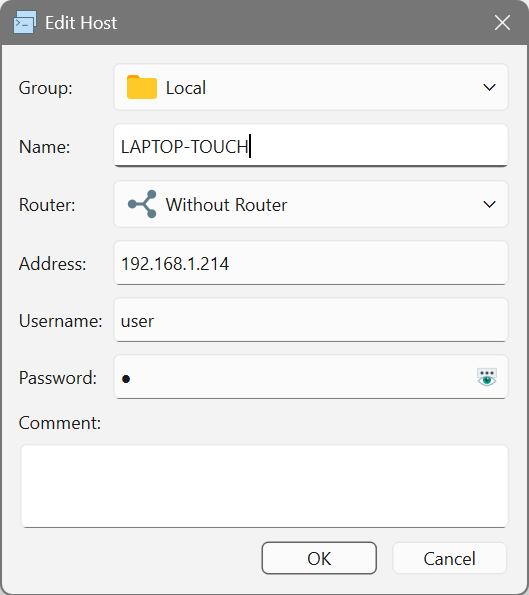
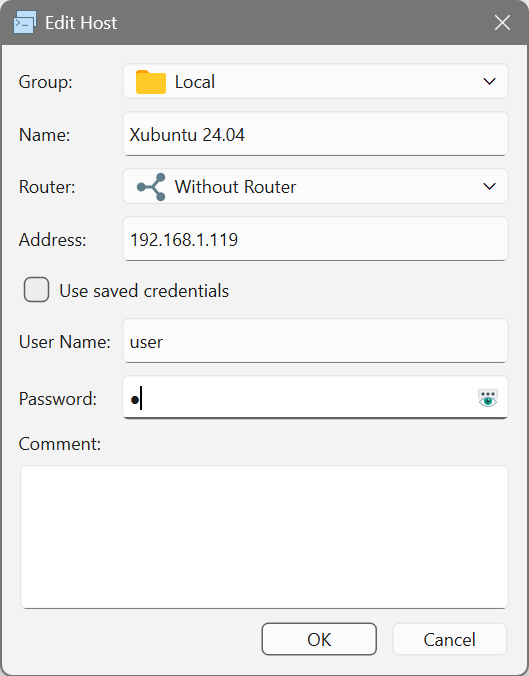
Update docs.

diff --git a/docs/client.md b/docs/client.md
@@ -183,17 +183,21 @@ without entering the address and the credentials every time.
 
 To create an entry, select a group and use **Add Host**. The dialog contains the following fields:
 
-| Field    | Required | Description                                                                                                                                                                            |
-|----------|----------|----------------------------------------------------------------------------------------------------------------------------------------------------------------------------------------|
-| Group    | Yes      | The group the entry is placed in. The group selected in the tree is offered by default.                                                                                                |
-| Name     | Yes      | The name displayed in the list, from 1 to 64 characters. Any characters are allowed.                                                                                                   |
-| Router   | Yes      | Either "Without Router" for a direct connection, or one of the Routers added to the address book.                                                                                      |
-| Address  | Yes      | The address of the Host for a direct connection, or the Host ID on the selected Router. See the formats below.                                                                         |
-| Username | No       | The name of the user of the Host, up to 64 characters. Letters, digits and the `. _ - @` characters are allowed. If the field is empty, the credentials are asked at every connection. |
-| Password | No       | The password of the user of the Host, up to 64 characters. Any characters are allowed.                                                                                                 |
-| Comment  | No       | Any text up to 2048 characters, for example the location of the computer or the name of its owner.                                                                                     |
+| Field                 | Required | Description                                                                                                                                                                                                                           |
+|-----------------------|----------|---------------------------------------------------------------------------------------------------------------------------------------------------------------------------------------------------------------------------------------|
+| Group                 | Yes      | The group the entry is placed in. The group selected in the tree is offered by default.                                                                                                                                               |
+| Name                  | Yes      | The name displayed in the list, from 1 to 64 characters. Any characters are allowed. The name must be unique within the group.                                                                                                        |
+| Router                | Yes      | Either "Without Router" for a direct connection, or one of the Routers added to the address book.                                                                                                                                     |
+| Address / ID          | Yes      | The address of the Host for a direct connection. If a Router is selected, the field is called "ID" and contains the Host ID on that Router. See the formats below.                                                                    |
+| Use saved credentials | No       | Takes the user name and the password from a record of the saved credentials instead of the fields below. It is available when at least one record exists.                                                                             |
+| Credentials           | No       | The record of the saved credentials. It is displayed instead of the user name and the password when "Use saved credentials" is enabled.                                                                                               |
+| User Name             | No       | The name of the user of the Host, up to 64 characters. Letters, digits and the `. _ - @` characters are allowed. It is filled in together with the password. If both fields are empty, the credentials are asked at every connection. |
+| Password              | No       | The password of the user of the Host. It is filled in together with the user name.                                                                                                                                                    |
+| Comment               | No       | Any text up to 2048 characters, for example the location of the computer or the name of its owner.                                                                                                                                    |
 
 <br/>
+One record of the saved credentials can be used by several computers: when its password changes,
+it is enough to change it in one place.
 
 If a Router is not selected, the field contains a domain name, an IPv4 or an IPv6 address. The port
 is specified after a colon; when it is omitted, the default port 8050 is used. An IPv6 address is
@@ -224,7 +228,7 @@ Computer or domain name (with port)
 If a Router is selected, the field contains the Host ID issued by that Router, and the connection is
 established through it.
 
-<p align="center"><img src="/images/client-host-properties.png" width="400"/></p>
+<p align="center"><img src="/images/client-host-properties.png" width="400"/> <img src="/images/client-host-properties2.png" width="400"/></p>
 
 **Commands for computers**
 
